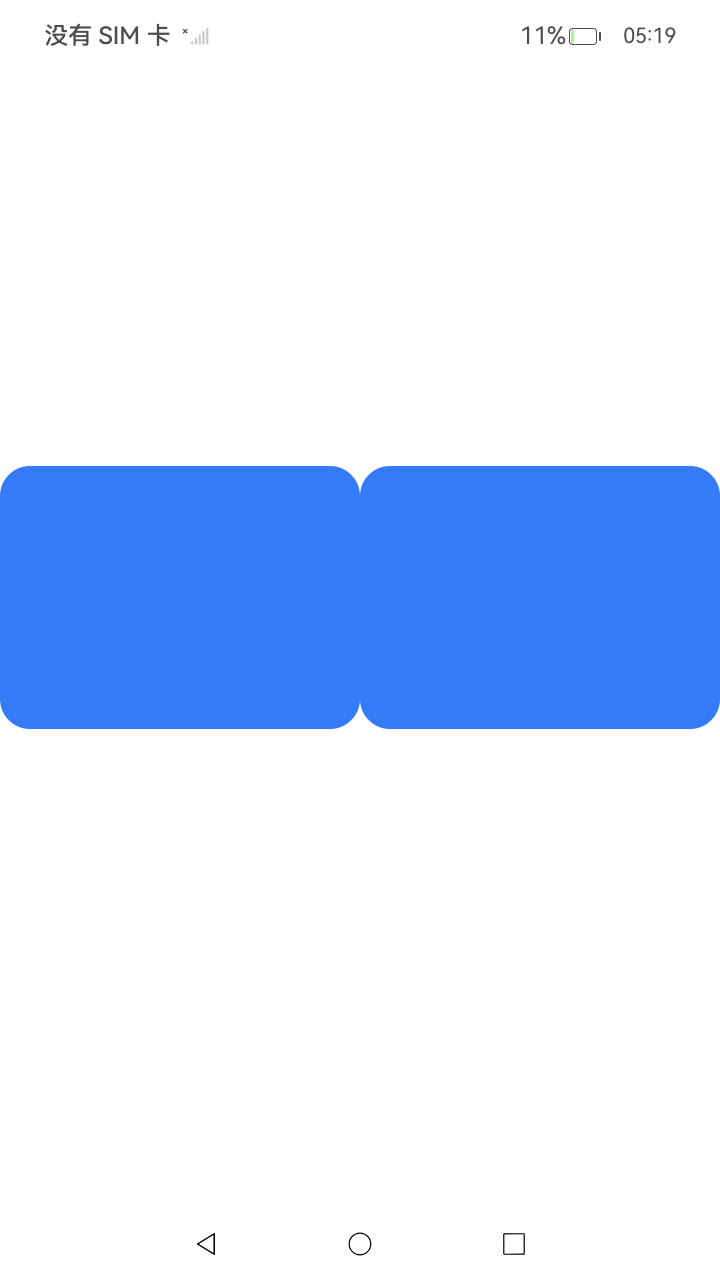
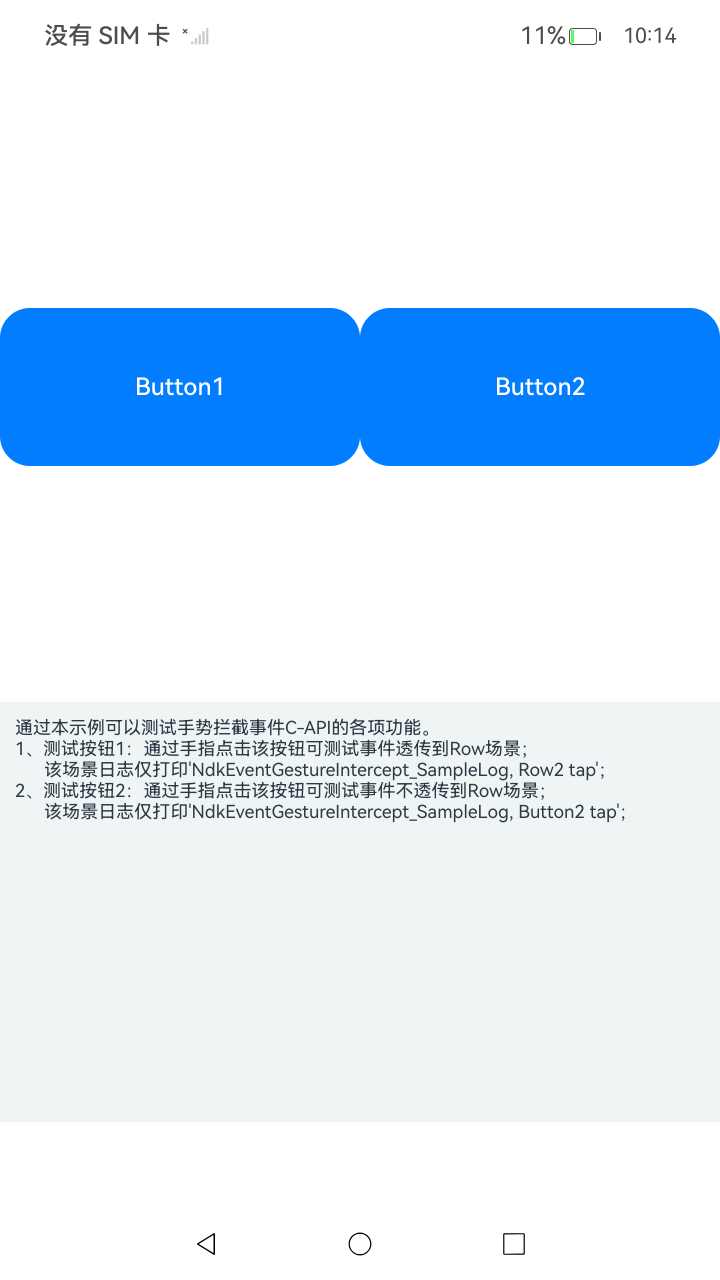
GestureCollectChangeInfo

diff --git a/code/DocsSample/ArkUISample/NdkEventGestureIntercept/entry/src/main/cpp/function.h b/code/DocsSample/ArkUISample/NdkEventGestureIntercept/entry/src/main/cpp/function.h
@@ -28,11 +28,14 @@
 #define DEFAULT_BG_LENGTH 233
 #define DEFAULT_BG_BORDER_WIDTH 2
 #define NODE_ID 2
-#define BUTTON_ID 14
+#define DEFAULT_STACK_HEIGHT 0.6
 #define DEFAULT_BUTTON_HEIGHT 0.25
 #define DEFAULT_BUTTON_WIDTH 0.5
+// 空白间距10
+#define BLANK_10 10.0
 
 namespace NativeXComponentSample {
+// 处理手势识别器
 bool GestureRecognizerModule(ArkUI_GestureRecognizerHandleArray &array, int32_t &uniqueId, int32_t size,
                              ArkUI_GestureCollectInterceptInfo *info)
 {
@@ -42,7 +45,8 @@ bool GestureRecognizerModule(ArkUI_GestureRecognizerHandleArray &array, int32_t 
             OH_LOG_Print(LOG_APP, LOG_INFO, LOG_PRINT_DOMAIN, "[Sample_NdkEventGestureIntercept]",
                          "NdkEventGestureIntercept_SampleLog, gestureRecognizer isHostBelongsTo");
         }
-        if (uniqueId == BUTTON_ID) {
+        // 根据uniqueId判断事件是否来自右侧button
+        if (uniqueId == g_buttonId) {
             OH_LOG_Print(LOG_APP, LOG_INFO, LOG_PRINT_DOMAIN, "[Sample_NdkEventGestureIntercept]",
                          "NdkEventGestureIntercept_SampleLog, gestureRecognizer is from Button2");
             OH_ArkUI_GestureCollectInterceptInfo_SetGestureCollectIntervention(
@@ -52,6 +56,7 @@ bool GestureRecognizerModule(ArkUI_GestureRecognizerHandleArray &array, int32_t 
     }
     return true;
 }
+// 处理触摸识别器
 void TouchRecognizerModule(ArkUI_TouchRecognizerHandleArray &arrayTouch, int32_t size)
 {
     for (auto i = 0; i < size; i++) {
@@ -127,13 +132,17 @@ void SecondModule()
 }
 void FirstModule(ArkUI_NodeHandle &root)
 {
+    auto stack = nodeAPI->createNode(ARKUI_NODE_STACK);
+    SetWidthPercent(stack, 1);
+    SetHeightPercent(stack, DEFAULT_STACK_HEIGHT);
+    nodeAPI->addChild(root, stack);
     row1 = nodeAPI->createNode(ARKUI_NODE_ROW);
     SetId(row1, "bgRow");
-    nodeAPI->addChild(root, row1);
+    nodeAPI->addChild(stack, row1);
 
     row2 = nodeAPI->createNode(ARKUI_NODE_ROW);
     SetId(row2, "fgRow");
-    nodeAPI->addChild(root, row2);
+    nodeAPI->addChild(stack, row2);
     nodeAPI->registerNodeEvent(row1, NODE_TOUCH_EVENT, 0, &row1);
     nodeAPI->registerNodeEvent(row2, NODE_TOUCH_EVENT, 0, &row2);
 
@@ -151,15 +160,24 @@ void FirstModule(ArkUI_NodeHandle &root)
     nodeAPI->addChild(row2, button2);
     nodeAPI->registerNodeEvent(button1, NODE_TOUCH_EVENT, 0, &button1);
     nodeAPI->registerNodeEvent(button2, NODE_TOUCH_EVENT, 0, &button2);
+    OH_ArkUI_NodeUtils_GetNodeUniqueId(button2, &g_buttonId);
 
     SetWidthPercent(button1, DEFAULT_BUTTON_WIDTH);
     SetHeightPercent(button1, DEFAULT_BUTTON_HEIGHT);
     SetWidthPercent(button2, DEFAULT_BUTTON_WIDTH);
     SetHeightPercent(button2, DEFAULT_BUTTON_HEIGHT);
+    SetButtonLabel(button1, "Button1");
+    SetButtonLabel(button2, "Button2");
     SetId(button1, "Button1");
     SetId(button2, "Button2");
     SecondModule();
     ThirdModule();
+    infoText = nodeAPI->createNode(ARKUI_NODE_TEXT);
+    SetId(infoText, "info");
+    SetText(infoText, g_explain.c_str());
+    SetWidthPercent(infoText, 1);
+    SetPadding(infoText, BLANK_10);
+    nodeAPI->addChild(root, infoText);
 }
 
 } // namespace NativeXComponentSample

diff --git a/code/DocsSample/ArkUISample/NdkEventGestureIntercept/entry/src/main/cpp/infos.h b/code/DocsSample/ArkUISample/NdkEventGestureIntercept/entry/src/main/cpp/infos.h
@@ -23,6 +23,13 @@
 #include <sstream>
 
 namespace NativeXComponentSample {
+// 示例说明文本
+std::string g_explain = "通过本示例可以测试手势拦截事件C-API的各项功能。\n"
+    "1、测试按钮1：通过手指点击该按钮可测试事件透传到Row场景；\n"
+    "      该场景日志仅打印'NdkEventGestureIntercept_SampleLog, Row2 tap'；\n"
+    "2、测试按钮2：通过手指点击该按钮可测试事件不透传到Row场景；\n"
+    "      该场景日志仅打印'NdkEventGestureIntercept_SampleLog, Button2 tap'；\n";
+
 std::stringstream g_ss;
 
 ArkUI_NodeHandle column1;
@@ -31,6 +38,9 @@ ArkUI_NodeHandle row2 = nullptr;
 ArkUI_NodeHandle stack1 = nullptr;
 ArkUI_NodeHandle button1 = nullptr;
 ArkUI_NodeHandle button2 = nullptr;
+// 信息文本节点
+ArkUI_NodeHandle infoText = nullptr;
+int32_t g_buttonId;
 } // namespace NativeXComponentSample
 
 #endif //NDKINPUTEVENT_INFOS_H

diff --git a/code/DocsSample/ArkUISample/NdkEventGestureIntercept/entry/src/main/cpp/common.h b/code/DocsSample/ArkUISample/NdkEventGestureIntercept/entry/src/main/cpp/common.h
@@ -162,6 +162,27 @@ void SetId(ArkUI_NodeHandle &node, const char *id)
     nodeAPI->setAttribute(node, NODE_ID, &idItem);
 }
 
+// 设置按钮标签文本
+void SetButtonLabel(ArkUI_NodeHandle &node, const char *label)
+{
+    if (!nodeAPI) {
+        return;
+    }
+    ArkUI_AttributeItem NODE_Button_SRC_Item = {.string = label};
+    nodeAPI->setAttribute(node, NODE_BUTTON_LABEL, &NODE_Button_SRC_Item);
+}
+
+// 设置节点内边距
+void SetPadding(ArkUI_NodeHandle &node, float padding)
+{
+    if (!nodeAPI) {
+        return;
+    }
+    ArkUI_NumberValue paddingValue[] = {padding};
+    ArkUI_AttributeItem paddingItem = {paddingValue, 1};
+    nodeAPI->setAttribute(node, NODE_PADDING, &paddingItem);
+}
+
 } // namespace NativeXComponentSample
 
 #endif // DRAGANDDROP_COMMON_H

diff --git a/code/DocsSample/ArkUISample/NdkEventGestureIntercept/entry/src/main/cpp/manager.cpp b/code/DocsSample/ArkUISample/NdkEventGestureIntercept/entry/src/main/cpp/manager.cpp
@@ -52,11 +52,11 @@ Manager::~Manager()
 void SampleEntry(napi_env env, napi_value arg, OH_NativeXComponent *component)
 {
     // 根节点
-    auto stack = nodeAPI->createNode(ARKUI_NODE_STACK);
-    SetWidthPercent(stack, 1);
-    SetHeightPercent(stack, 1);
-    FirstModule(stack);
-    OH_NativeXComponent_AttachNativeRootNode(component, stack);
+    auto column = nodeAPI->createNode(ARKUI_NODE_COLUMN);
+    SetWidthPercent(column, 1);
+    SetHeightPercent(column, 1);
+    FirstModule(column);
+    OH_NativeXComponent_AttachNativeRootNode(component, column);
 }
 
 napi_value Manager::CreateNativeNode(napi_env env, napi_callback_info info)
